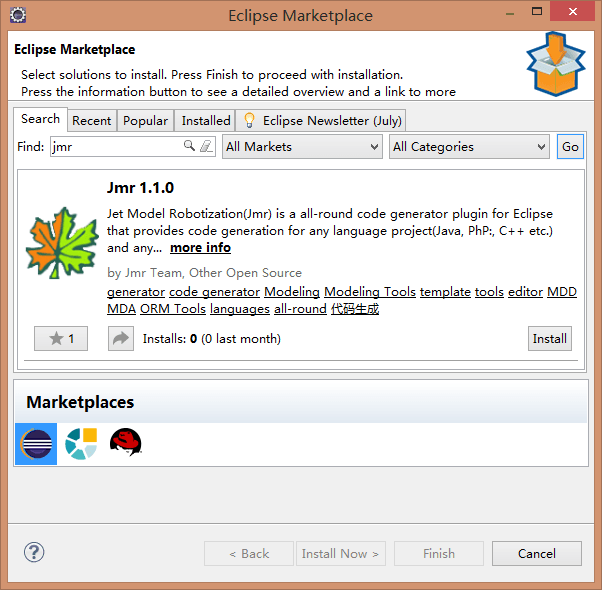
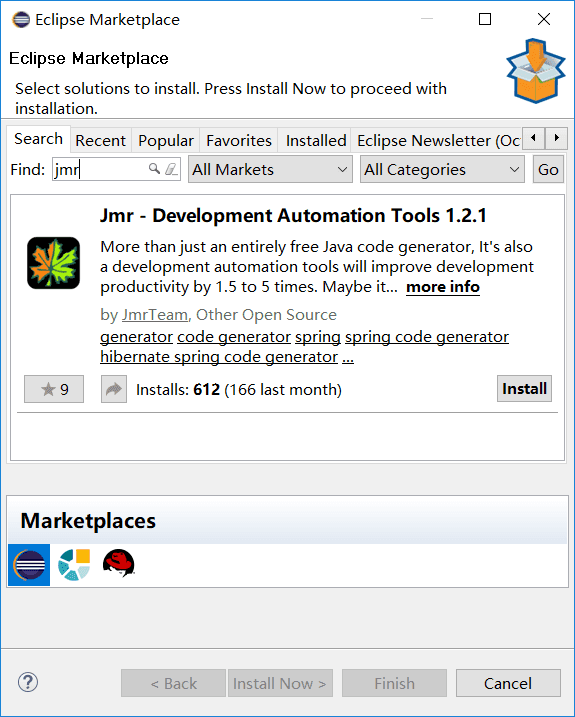
update Jmr 1.2.x

diff --git a/README.zh.md b/README.zh.md
@@ -10,7 +10,15 @@
 
 ## Jmr是什么？
 
-Jmr全称Jet Model Robotization，在Eclipse中，只要安装了Jmr插件，任何语言(Java，Php，C++等)的项目，任何类型的框架(struts, spring/springMVC, hiberate等)，都可以使用Jmr来生成代码。
+Jmr不仅仅是一款免费的Java代码生成工具，还是一款应用最新理念的自动化开发工具。
+
+比普通代码生成器做得多得多，实现全程自动化开发。能够提升1.5~5倍的效率，在提升效率的同时，不必改变项目和框架，可以零耦合集成Jmr。
+
+Jmr全称Jet Model Robotization，在Eclipse中，只要安装了Jmr插件，任何类型项目(Maven, Gradle, Web, Java, PHP, Python等等)的项目，任何类型的框架(spring/springMVC, hibernate, mybatis, struts, JPA等)，都可以使用Jmr来管理和生成代码。
+
+![](image/7.png)
+
+![](image/8.png)
 
 ## Jmr能做到什么？
 

diff --git a/README.md b/README.md
@@ -10,7 +10,15 @@
 
 ## What is Jmr?
 
-Jmr’s full name is Jet Model Robotization, in Eclipse, any language (Java, Php, C++ etc.) project, any type of framework(struts, spring/springMVC, hiberate etc.), can use Jmr to generate code.
+More than just an entirely free Java code generator, It's also a state-of-the-art development automation tool(Much more than a normal code generator). 
+
+Maybe it can become your "black technology" will improve development productivity by 1.5 to 5 times, Zero coupling to your project and without changing anything.
+
+Jmr’s full name is Jet Model Robotization, in Eclipse, any kind of project(Maven, Gradle, Web, Java, PHP, Python etc.), any kind of framework(spring/springMVC, hibernate, mybatis, struts, JPA etc.), can use Jmr to manage and generate code.
+
+![](image/7.png)
+
+![](image/8.png)
 
 ## What can Jmr do?
 
